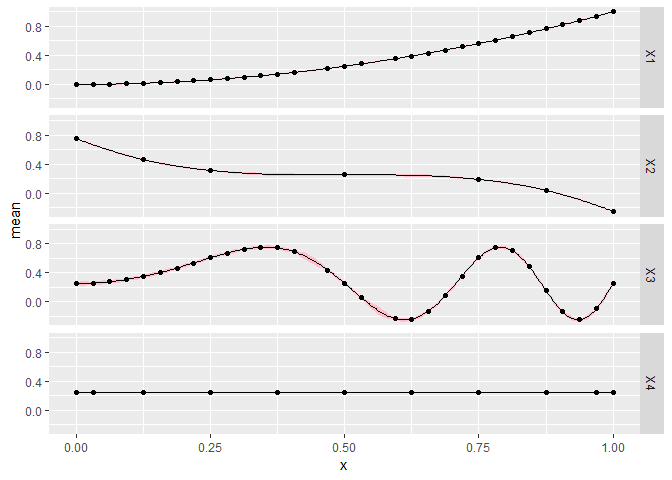
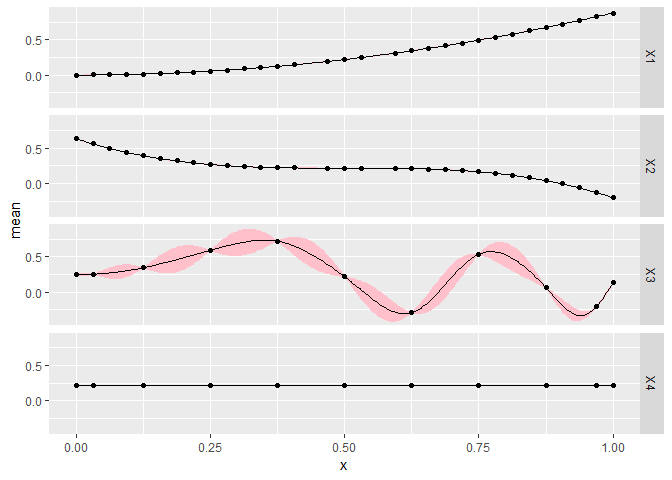
Edited readme

diff --git a/README.md b/README.md
@@ -13,7 +13,7 @@ algorithm that can efficiently use many points and interpolate exactly.
 
 ## Installation
 
-You can install CGGP from github with:
+You can install CGGP from GitHub with:
 
 ``` r
 # install.packages("devtools")
@@ -43,10 +43,11 @@ print(CG)
 ```
 
 A new `CGGP` object has design points that should be evaluated next,
-either from `CG$design` or `CG$design_unevaluated`.
+either from `CG$design` or
+`CG$design_unevaluated`.
 
 ``` r
-f <- function(x) {x[1]^2 + 4*(0.5-x[2])^3 + x[1]*sin(2*2*pi*x[3]^2)}
+f <- function(x) {x[1]^2*cos(x[3]) + 4*(0.5-x[2])^3*(1-x[1]/3) + x[1]*sin(2*2*pi*x[3]^2)}
 Y <- apply(CG$design, 1, f)
 ```
 
@@ -75,30 +76,30 @@ you can use `CGGPpred`.
 xp <- matrix(runif(10*CG$d), ncol=CG$d)
 CGGPpred(CG, xp)
 #> $mean
-#>              [,1]
-#>  [1,] -0.09990079
-#>  [2,]  1.08397346
-#>  [3,]  0.21605823
-#>  [4,]  0.77011959
-#>  [5,]  0.20280109
-#>  [6,]  0.16050310
-#>  [7,]  0.89803002
-#>  [8,]  0.91208027
-#>  [9,]  0.54244027
-#> [10,]  1.28567833
+#>                [,1]
+#>  [1,]  0.0001162884
+#>  [2,] -0.0344228978
+#>  [3,] -0.0196339461
+#>  [4,]  0.7418505766
+#>  [5,]  0.4708991004
+#>  [6,] -0.2423823333
+#>  [7,]  0.1824982528
+#>  [8,]  0.0323529025
+#>  [9,]  0.4261492247
+#> [10,] -0.2613434429
 #> 
 #> $var
 #>               [,1]
-#>  [1,] 0.0078659174
-#>  [2,] 0.0424122636
-#>  [3,] 0.0733190759
-#>  [4,] 0.0002926377
-#>  [5,] 0.0155673807
-#>  [6,] 0.1188586026
-#>  [7,] 0.1035416454
-#>  [8,] 0.0485755511
-#>  [9,] 0.0754647645
-#> [10,] 0.0047451181
+#>  [1,] 7.974964e-06
+#>  [2,] 1.492197e-06
+#>  [3,] 1.537227e-05
+#>  [4,] 2.460356e-05
+#>  [5,] 1.117700e-05
+#>  [6,] 1.654354e-05
+#>  [7,] 8.025908e-07
+#>  [8,] 7.446481e-06
+#>  [9,] 5.917793e-06
+#> [10,] 1.421730e-05
 ```
 
 To add new design points to the already existing design, use
@@ -161,7 +162,7 @@ explored more. These should be the more active dimensions.
 ``` r
 CGGPplothist(CG)
 #> Warning: Transformation introduced infinite values in continuous y-axis
-#> Warning: Removed 5 rows containing missing values (geom_bar).
+#> Warning: Removed 4 rows containing missing values (geom_bar).
 ```
 
 ![](tools/README-hist-1.png)<!-- -->
@@ -218,6 +219,18 @@ CGGPplotprojection(CG)
 
 ![](tools/README-projectionplot-1.png)<!-- -->
 
+The next plot changes so that all the other dimensions are held constant
+at 0.15 for each projection plot. When moving from the center line, the
+error bounds generally should be larger since it is further from the
+data, but we should see similar patterns unless the function is highly
+nonlinear.
+
+``` r
+CGGPplotprojection(CG, proj = rep(.15, CG$d))
+```
+
+![](tools/README-projectionplot2-1.png)<!-- -->
+
 #### `CGGPplottheta`
 
 `CGGPplottheta` is useful for getting an idea of how the samples for the
@@ -236,7 +249,7 @@ CGGPplottheta(CG)
 
 `CGGPplotsamplesneglogpost` shows the negative log posterior for each of
 the different samples for theta. The value for the MAP is shown as a
-blue line.
+blue line. It should be at the far left edge if it is the true MAP.
 
 ``` r
 CGGPplotsamplesneglogpost(CG)
